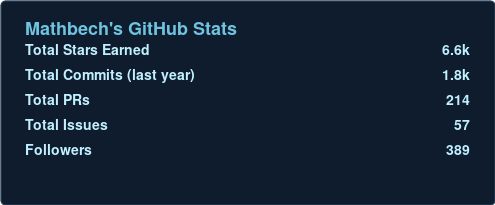
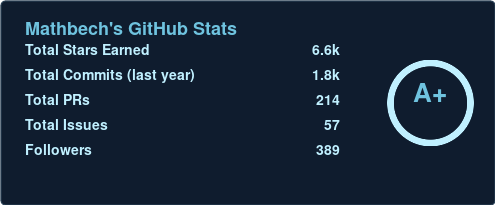
feat: add rank calculation and reviews to stats
- Implemented rank calculation based on commits, PRs, issues, reviews, stars, and followers.
- Updated stats fetching to include total pull request review contributions.
- Modified SVG rendering to display rank as a circular progress indicator.
- Enhanced README with new parameters and deployment instructions.
- Updated preview generation scripts to reflect changes in stats structure.

diff --git a/src/cards/stats.js b/src/cards/stats.js
@@ -1,6 +1,7 @@
-// Rend une carte SVG de stats GitHub.
+// Rend une carte SVG de stats GitHub, avec cercle de rang (S, A+, ... C).
 import { escapeXml, formatNumber, sanitizeHex, parseBool } from "../utils.js";
 import { resolveTheme } from "../themes.js";
+import { calculateRank } from "../rank.js";
 
 export function renderStatsCard(stats, query = {}) {
   const t = resolveTheme(query);
@@ -9,9 +10,11 @@ export function renderStatsCard(stats, query = {}) {
   const icon_color = sanitizeHex(t.icon_color, "#4c71f2").slice(1);
   const bg_color = sanitizeHex(t.bg_color, "#fffefe").slice(1);
   const border_color = sanitizeHex(t.border_color, "#e4e2e2").slice(1);
+  const ring_color = sanitizeHex(query.ring_color, `#${title_color}`).slice(1);
 
   const hideBorder = parseBool(query.hide_border, false);
   const showIcons = parseBool(query.show_icons, false);
+  const hideRank = parseBool(query.hide_rank, false);
   const customTitle = query.custom_title
     ? escapeXml(query.custom_title)
     : `${escapeXml(stats.name)}'s GitHub Stats`;
@@ -29,6 +32,10 @@ export function renderStatsCard(stats, query = {}) {
   const width = 495;
   const height = startY + rows.length * lineHeight + 25;
 
+  // Espace réservé à droite pour le cercle de rang.
+  const ringSpace = hideRank ? 0 : 130;
+  const valueRightX = width - 25 - ringSpace;
+
   const rowsSvg = rows
     .map((r, i) => {
       const y = startY + i * lineHeight;
@@ -40,15 +47,42 @@ export function renderStatsCard(stats, query = {}) {
       <g>
         ${iconSvg}
         <text x="${labelX}" y="${y}" fill="#${text_color}" font-size="14" font-weight="600">${r.label}</text>
-        <text x="${width - 25}" y="${y}" fill="#${text_color}" font-size="14" font-weight="700" text-anchor="end">${formatNumber(r.value)}</text>
+        <text x="${valueRightX}" y="${y}" fill="#${text_color}" font-size="14" font-weight="700" text-anchor="end">${formatNumber(r.value)}</text>
       </g>`;
     })
     .join("");
+
+  let rankSvg = "";
+  if (!hideRank) {
+    const { level, percentile } = calculateRank({
+      commits: stats.commits,
+      prs: stats.prs,
+      issues: stats.issues,
+      reviews: stats.reviews || 0,
+      stars: stats.stars,
+      followers: stats.followers,
+    });
+    const cx = width - 65;
+    const cy = startY + (rows.length * lineHeight) / 2 - 15;
+    const r = 40;
+    const circumference = 2 * Math.PI * r;
+    // Portion remplie = (100 - percentile) / 100 → meilleur rang = plus rempli.
+    const offset = (circumference * percentile) / 100;
+    rankSvg = `
+    <g>
+      <circle cx="${cx}" cy="${cy}" r="${r}" fill="none" stroke="#${text_color}" stroke-opacity="0.2" stroke-width="6"/>
+      <circle cx="${cx}" cy="${cy}" r="${r}" fill="none" stroke="#${ring_color}" stroke-width="6"
+              stroke-linecap="round" stroke-dasharray="${circumference.toFixed(2)}"
+              stroke-dashoffset="${offset.toFixed(2)}" transform="rotate(-90 ${cx} ${cy})"/>
+      <text x="${cx}" y="${cy}" fill="#${title_color}" font-size="26" font-weight="700"
+            text-anchor="middle" dominant-baseline="central">${level}</text>
+    </g>`;
+  }
 
   return `<svg width="${width}" height="${height}" viewBox="0 0 ${width} ${height}" fill="none" xmlns="http://www.w3.org/2000/svg" role="img" aria-label="${customTitle}">
   <rect x="0.5" y="0.5" rx="4.5" width="${width - 1}" height="${height - 1}" fill="#${bg_color}" stroke="#${border_color}" stroke-opacity="${hideBorder ? 0 : 1}"/>
   <text x="25" y="35" fill="#${title_color}" font-size="18" font-weight="700" font-family="Segoe UI, Ubuntu, sans-serif">${customTitle}</text>
   <g font-family="Segoe UI, Ubuntu, sans-serif">${rowsSvg}
-  </g>
+  </g>${rankSvg}
 </svg>`;
 }

diff --git a/src/rank.js b/src/rank.js
@@ -1,0 +1,65 @@
+// Calcul du rang (S, A+, A, A-, B+, B, B-, C+, C), repris de l'algorithme de
+// github-readme-stats : somme pondérée de percentiles via CDF exponentielle et
+// log-normale. Ce n'est PAS une métrique officielle GitHub, juste un score.
+
+function exponentialCdf(x) {
+  return 1 - 2 ** -x;
+}
+
+function logNormalCdf(x) {
+  // Approximation utilisée par github-readme-stats.
+  return x / (1 + x);
+}
+
+/**
+ * @param {{commits:number, prs:number, issues:number, reviews:number,
+ *          stars:number, followers:number, allCommits?:boolean}} p
+ * @returns {{ level:string, percentile:number }} percentile : 0 (meilleur) → 100
+ */
+export function calculateRank({
+  commits = 0,
+  prs = 0,
+  issues = 0,
+  reviews = 0,
+  stars = 0,
+  followers = 0,
+  allCommits = false,
+}) {
+  const COMMITS_MEDIAN = allCommits ? 1000 : 250;
+  const COMMITS_WEIGHT = 2;
+  const PRS_MEDIAN = 50;
+  const PRS_WEIGHT = 3;
+  const ISSUES_MEDIAN = 25;
+  const ISSUES_WEIGHT = 1;
+  const REVIEWS_MEDIAN = 2;
+  const REVIEWS_WEIGHT = 1;
+  const STARS_MEDIAN = 50;
+  const STARS_WEIGHT = 4;
+  const FOLLOWERS_MEDIAN = 10;
+  const FOLLOWERS_WEIGHT = 1;
+
+  const TOTAL_WEIGHT =
+    COMMITS_WEIGHT +
+    PRS_WEIGHT +
+    ISSUES_WEIGHT +
+    REVIEWS_WEIGHT +
+    STARS_WEIGHT +
+    FOLLOWERS_WEIGHT;
+
+  const THRESHOLDS = [1, 12.5, 25, 37.5, 50, 62.5, 75, 87.5, 100];
+  const LEVELS = ["S", "A+", "A", "A-", "B+", "B", "B-", "C+", "C"];
+
+  const rank =
+    1 -
+    (COMMITS_WEIGHT * exponentialCdf(commits / COMMITS_MEDIAN) +
+      PRS_WEIGHT * exponentialCdf(prs / PRS_MEDIAN) +
+      ISSUES_WEIGHT * exponentialCdf(issues / ISSUES_MEDIAN) +
+      REVIEWS_WEIGHT * exponentialCdf(reviews / REVIEWS_MEDIAN) +
+      STARS_WEIGHT * logNormalCdf(stars / STARS_MEDIAN) +
+      FOLLOWERS_WEIGHT * logNormalCdf(followers / FOLLOWERS_MEDIAN)) /
+      TOTAL_WEIGHT;
+
+  const percentile = rank * 100;
+  const level = LEVELS[THRESHOLDS.findIndex((t) => percentile <= t)];
+  return { level, percentile };
+}

diff --git a/src/github.js b/src/github.js
@@ -39,6 +39,7 @@ query userStats($login: String!) {
     contributionsCollection {
       totalCommitContributions
       restrictedContributionsCount
+      totalPullRequestReviewContributions
     }
     pullRequests(first: 1) { totalCount }
     issues(first: 1) { totalCount }
@@ -69,6 +70,7 @@ export async function fetchStats(username, { includeAllCommits = false } = {}) {
     commits,
     prs: user.pullRequests.totalCount,
     issues: user.issues.totalCount,
+    reviews: user.contributionsCollection.totalPullRequestReviewContributions,
     followers: user.followers.totalCount,
   };
 }

diff --git a/scripts/gen-previews.js b/scripts/gen-previews.js
@@ -10,7 +10,7 @@ import { renderTopLangsCard } from "../src/cards/top-langs.js";
 const outDir = join(dirname(fileURLToPath(import.meta.url)), "..", "assets");
 mkdirSync(outDir, { recursive: true });
 
-const stats = { name: "Mathbech", stars: 6626, commits: 1843, prs: 214, issues: 57, followers: 389 };
+const stats = { name: "Mathbech", stars: 6626, commits: 1843, prs: 214, issues: 57, reviews: 42, followers: 389 };
 const langs = [
   { name: "JavaScript", color: "#f1e05a", percent: 41.2 },
   { name: "TypeScript", color: "#3178c6", percent: 28.7 },

diff --git a/scripts/smoke.js b/scripts/smoke.js
@@ -4,7 +4,7 @@ import { writeFileSync } from "node:fs";
 import { renderStatsCard } from "../src/cards/stats.js";
 import { renderTopLangsCard } from "../src/cards/top-langs.js";
 
-const fakeStats = { name: "Mathbech", stars: 6626, commits: 1843, prs: 214, issues: 57, followers: 389 };
+const fakeStats = { name: "Mathbech", stars: 6626, commits: 1843, prs: 214, issues: 57, reviews: 42, followers: 389 };
 const fakeLangs = [
   { name: "JavaScript", color: "#f1e05a", percent: 41.2 },
   { name: "TypeScript", color: "#3178c6", percent: 28.7 },

diff --git a/README.md b/README.md
@@ -6,6 +6,8 @@ Ton propre service de cartes de stats GitHub en SVG, écrit de zéro — **aucun
 Navigateur → (CloudFront plus tard) → Apache HTTPS → Node/Express (127.0.0.1:9000) → API GitHub
 ```
 
+Instance en ligne : `https://my-git-stats.bebech.fr`
+
 ## Galerie & URLs
 
 Aperçus générés avec des données factices (`node scripts/gen-previews.js`).
@@ -31,15 +33,83 @@ Aperçus générés avec des données factices (`node scripts/gen-previews.js`).
 ### Paramètres d'URL
 
 Communs : `theme`, `title_color`, `text_color`, `icon_color`, `bg_color`, `border_color`, `hide_border`, `custom_title`, `card_width`.
-Stats : `show_icons`, `include_all_commits`.
+Stats : `show_icons`, `include_all_commits`, `hide_rank`, `ring_color`.
 Top langs : `layout` (`normal`\|`compact`), `langs_count` (1–20).
 
 Thèmes fournis : `default`, `dark`, `radical`, `ocean_dark`, `tokyonight`. Ajoute les tiens dans `src/themes.js`.
 
+Le **rang** (cercle S / A+ / A … C) est un score calculé par le service (`src/rank.js`, même formule que github-readme-stats : somme pondérée de percentiles sur commits, PRs, issues, reviews, stars, followers). Ce n'est **pas** une métrique officielle GitHub. Masque-le avec `hide_rank=true`.
 
-Instance en ligne : `https://my-git-stats.bebech.fr`.
+Les commits affichés couvrent les **12 derniers mois** (fenêtre glissante de l'API GitHub) ; stars, PRs, issues et followers sont des cumuls.
 
+## Configuration : `.env` vs `.env.local`
+
+Deux fichiers, une règle simple :
+
+- **`.env`** — versionné (committé). Uniquement des valeurs **non-sensibles** (`CACHE_SECONDS`, `WHITELIST`). `PAT_1` y reste **vide**.
+- **`.env.local`** — **ignoré par git**. C'est ici que tu mets ton vrai token. Il a la priorité sur `.env`.
+
+`.env.local` :
+
+```env
+PAT_1=ghp_ton_vrai_token
+```
+
+Le token se crée sur https://github.com/settings/tokens → *Generate new token (classic)* → scopes **`repo`** + **`read:user`**.
+
+> Priorité de chargement : variables du shell/systemd > `.env.local` > `.env`.
+
+## Démarrer en local
+
+```bash
+npm install
+# mets ton token dans .env.local
+npm start                 # http://localhost:9000/api?username=Mathbech
+```
+
+Test du rendu sans token (données factices) : `npm run smoke`.
+Régénérer la galerie : `node scripts/gen-previews.js`.
+
+## Déploiement sur le VPS (sans Docker)
+
+```bash
+# Copie le projet, crée .env.local avec le token, puis :
+npm install --omit=dev
+node server.js            # écoute sur 127.0.0.1:9000
+```
+
+Garde le process en vie avec ce que tu préfères (systemd, pm2…) et place un reverse proxy HTTPS devant (Apache/Nginx/Caddy) qui relaie vers `127.0.0.1:9000`. Le port 9000 n'est jamais exposé directement au public.
+
+## Gestion des erreurs
+
+En cas d'erreur (token manquant, panne de l'API GitHub…), la page renvoie un **HTTP 500** avec un SVG vide et `Cache-Control: no-store` — aucun détail technique exposé (donc rien de lisible sur GitHub). Le détail complet part dans les logs : `logs/error.log` (dans le projet) **et** la console (`journalctl -u <service>`).
+
+## Instance publique (partage entre potes)
+
+Renseigne les usernames autorisés dans `WHITELIST` (fichier `.env`) pour protéger ton quota d'API GitHub (5000 req/h partagés sur ton token) :
+
+```env
+WHITELIST=Mathbech,pote1,pote2
+```
+
+Aucune fuite de données privées pour les autres : ton token ne voit que **tes** repos privés ; pour un autre username, GitHub ne renvoie que ses données publiques.
+
+## Structure
+
+```
+server.js              → serveur Express, routes, cache, whitelist
+src/loadenv.js         → charge .env / .env.local
+src/github.js          → requêtes GraphQL + agrégation
+src/cards/*.js         → rendu SVG des cartes
+src/rank.js            → calcul du rang (S / A+ / ... / C)
+src/themes.js          → palette de thèmes
+src/utils.js           → helpers
+src/logger.js          → journalisation des erreurs (fichier + console)
+scripts/smoke.js       → test de rendu hors-ligne
+scripts/gen-previews.js→ génère la galerie assets/
+assets/                → aperçus du README
+```
 
 ## Idées d'évolution
 
-Cartes `pin` / `gist` / `wakatime`, calcul du rang, pagination au-delà de 100 repos, cache Redis, rotation multi-tokens (`PAT_1..PAT_n`). La structure `src/cards/*` + route dans `server.js` est faite pour s'étendre.
+Cartes `pin` / `gist` / `wakatime`, pagination au-delà de 100 repos, cache Redis, rotation multi-tokens (`PAT_1..PAT_n`). La structure `src/cards/*` + route dans `server.js` est faite pour s'étendre.
